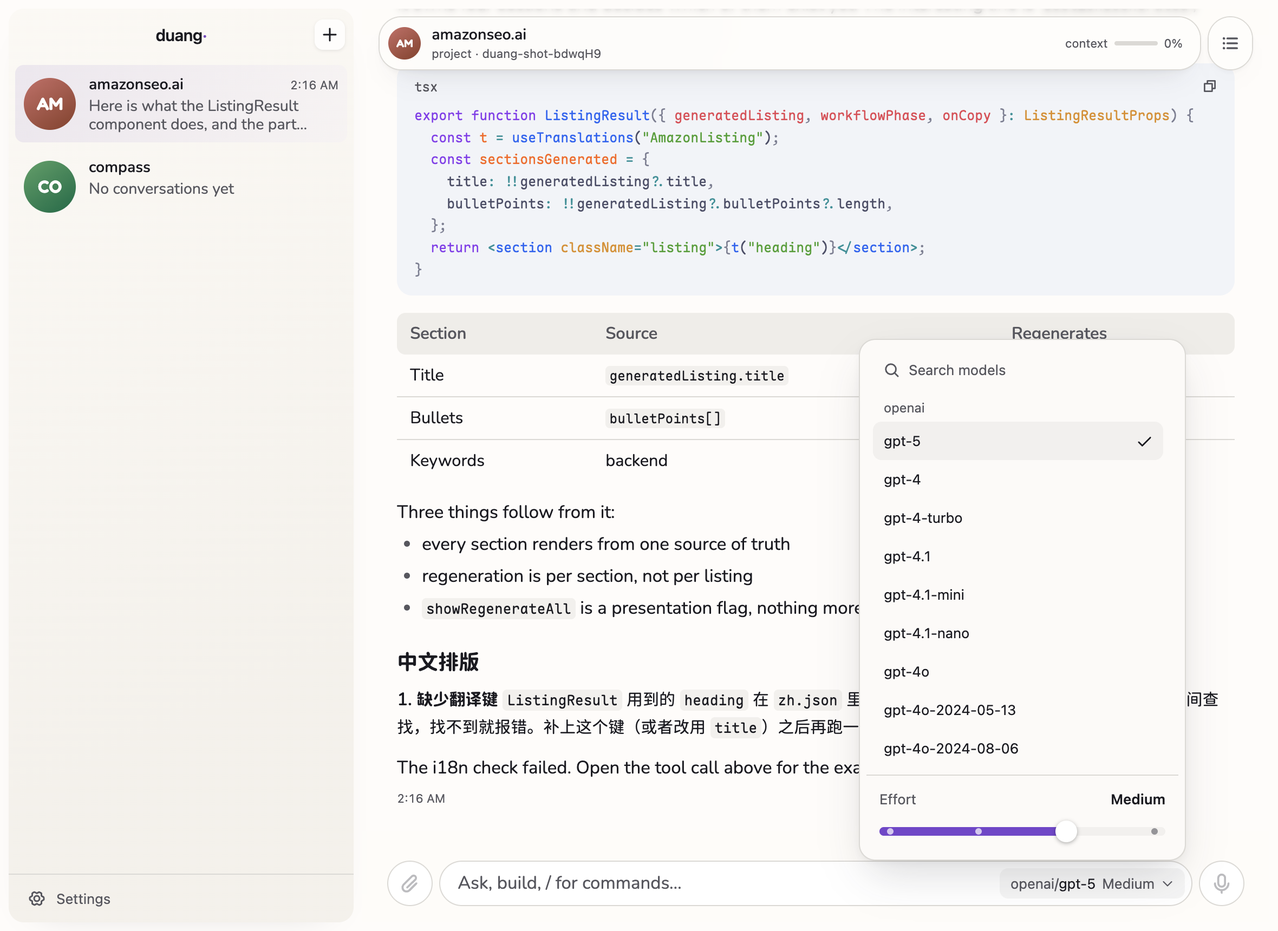
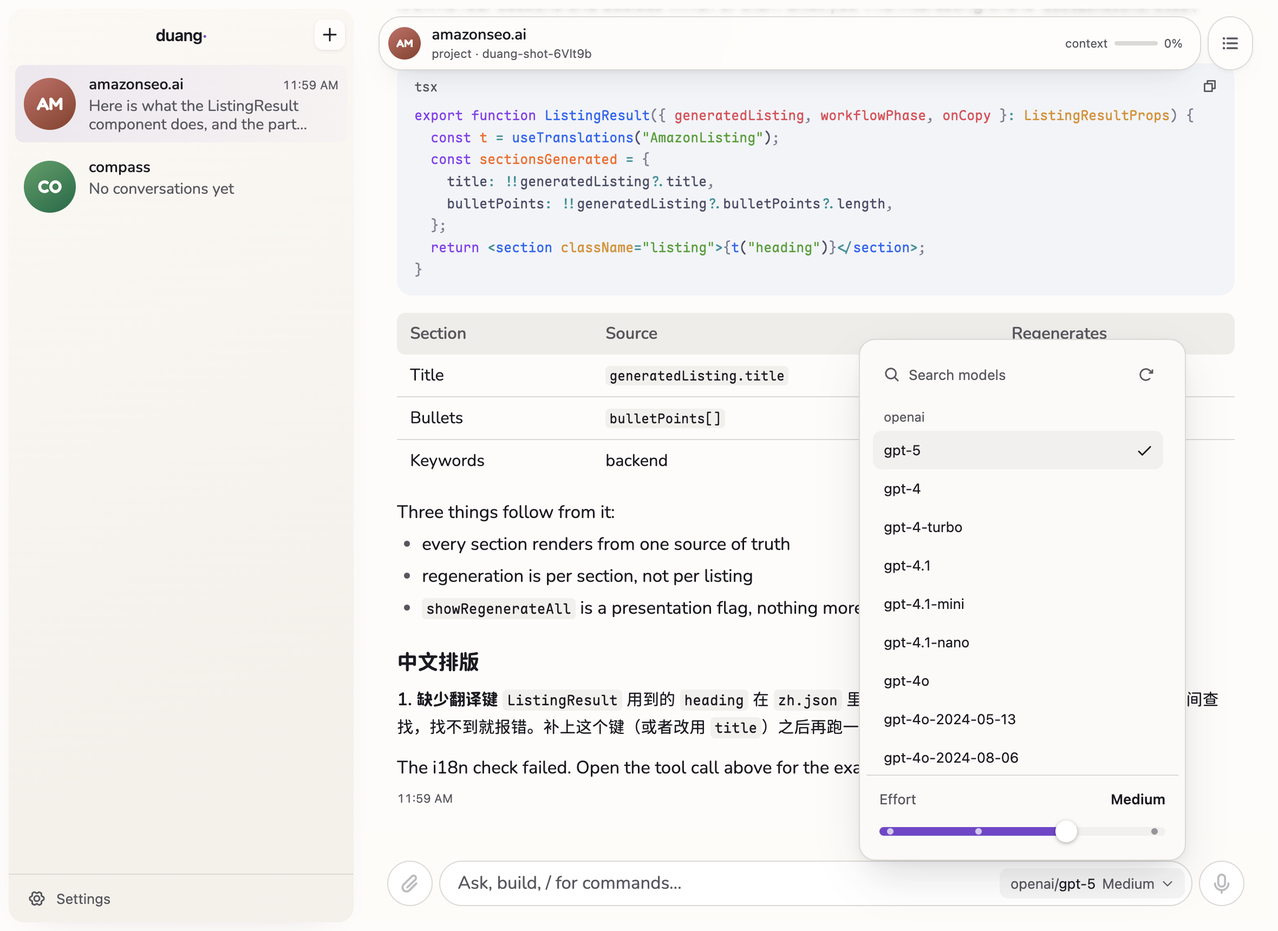
feat(ui): the model picker can fetch models released after the installed pi (#100)
## Summary

**A model released after the installed pi can be fetched from the model
picker.** The list is what pi's bundled catalog knows, so
`anthropic/claude-sonnet-5-5` was missing though pi itself shows it
(FastAgent #659, fixed in 0.23.0 as `refreshModelCatalog`, which nothing
refreshes on its own). The picker's search row now ends in a refresh
button:

- Pressing it asks pi.dev for the providers the agent's credentials
authenticate, over the same proxy route as a model call, and saves the
answer as `models-store.json` in the agent's folder (FastAgent's own
file, part of the agent's definition), then rereads the list.
- The button waits for the list to load, spins and is pressed once at a
time; a refresh already running for that agent (the picker was reopened
and pressed again) is joined, not repeated (pi serializes the writes to
`models-store.json` under a lock, so this only avoids a second request
of up to 15 s). A line under the search says how many models arrived (`2
new models.` / `No new models.`). A failure shows FastAgent's reason
verbatim (which provider, the 15-second timeout, `PI_OFFLINE`) and
leaves the list as it was.
- The answer belongs to the agent that asked and to the picker that
opened it: reopening the picker, or leaving the agent, drops a late one.
- A model it adds can be chosen at once: choosing rebuilds the agent's
runtime from the file (shown below).
- Only a person pressing it refreshes anything: no background fetch, no
[…]

diff --git a/src/renderer/store.test.ts b/src/renderer/store.test.ts
@@ -42,6 +42,7 @@ function harness() {
     revealAgent: async () => {},
     revealRegistry: async () => {},
     listModels: async () => ({ specs: ["provider/model"] }),
+    refreshModels: async () => ({ specs: ["provider/model"] }),
     providerUsage: async (provider) => ({ provider, fetchedAt: 0 }),
     getSettings: async () => ({ network: { mode: "automatic" }, route: { source: "system" } }),
     setNetwork: async () => ({ source: "system" }),
@@ -455,6 +456,26 @@ test("a refused model change or removal is shown, and changes nothing", async ()
   store.dispose();
 });
 
+test("refreshing models does nothing until the list has arrived", async () => {
+  const { api, store } = harness();
+  await store.load();
+  const slow = deferred<{ specs: string[] }>();
+  let refreshed = 0;
+  api.listModels = () => slow.promise;
+  api.refreshModels = async () => {
+    refreshed++;
+    throw new Error("could not refresh");
+  };
+  const loading = store.loadModels();
+  await store.refreshModels();
+  assert.equal(refreshed, 0, "nothing was asked: the picker is still loading");
+  assert.equal(store.getSnapshot().modelsRefresh, undefined);
+  slow.resolve({ specs: ["provider/model"] });
+  await loading;
+  assert.deepEqual(store.getSnapshot().models?.specs, ["provider/model"], "the reading in flight still lands");
+  store.dispose();
+});
+
 test("opening the conversation that is already open changes nothing", async () => {
   const { store, opens } = harness();
   await store.load();
@@ -664,6 +685,70 @@ test("the picker rereads models on every open, and a stale answer never lands", 
   slow.resolve({ specs: ["provider/stale"] });
   await pending;
   assert.deepEqual(store.getSnapshot().models?.specs, ["provider/current"]);
+  store.dispose();
+});
+
+test("refreshing models reports what arrived, keeps the list on failure, and answers only the agent and picker that asked", async () => {
+  const { api, store } = harness();
+  const asked: string[] = [];
+  api.listModels = async () => ({ specs: ["provider/old"] });
+  api.refreshModels = async (agentId) => {
+    asked.push(agentId);
+    return { specs: ["provider/old", "provider/new", "provider/newer"] };
+  };
+  await store.load();
+  await store.loadModels();
+
+  await store.refreshModels();
+  assert.deepEqual(asked, [store.getSnapshot().agentId], "the open agent's own catalog is what is refreshed");
+  assert.deepEqual(store.getSnapshot().models?.specs, ["provider/old", "provider/new", "provider/newer"]);
+  assert.deepEqual(store.getSnapshot().modelsRefresh, { status: "done", added: 2 }, "the person is told what changed");
+
+  api.refreshModels = async () => ({ specs: ["provider/old", "provider/new", "provider/newer"] });
+  await store.refreshModels();
+  assert.deepEqual(store.getSnapshot().modelsRefresh, { status: "done", added: 0 }, "nothing new is an answer too");
+
+  // A failed refresh leaves the models that are there runnable, and says why in FastAgent's own words.
+  api.refreshModels = async () => {
+    throw new Error("Error invoking remote method 'models:refresh': Error: could not refresh the model catalog: anthropic: 401");
+  };
+  await store.refreshModels();
+  assert.deepEqual(store.getSnapshot().modelsRefresh, {
+    status: "failed",
+    error: "could not refresh the model catalog: anthropic: 401",
+  });
+  assert.equal(store.getSnapshot().models?.specs.length, 3, "a failed refresh does not empty or stale the list");
+
+  // One at a time: a second press while one runs is not a second request.
+  const slow = deferred<{ specs: string[] }>();
+  let calls = 0;
+  api.refreshModels = () => (calls++, slow.promise);
+  const first = store.refreshModels();
+  void store.refreshModels(); // not awaited: without the guard it would wait on `slow` forever
+  assert.equal(calls, 1, "pressing again while the refresh runs does not start another");
+  assert.deepEqual(store.getSnapshot().modelsRefresh, { status: "running" });
+  slow.resolve({ specs: ["provider/old"] });
+  await first;
+
+  // The picker reopened meanwhile reads the list itself; the older answer must not overwrite it.
+  const late = deferred<{ specs: string[] }>();
+  api.refreshModels = () => late.promise;
+  const pending = store.refreshModels();
+  api.listModels = async () => ({ specs: ["provider/current"] });
+  await store.loadModels();
+  late.resolve({ specs: ["provider/stale"] });
+  await pending;
+  assert.deepEqual(store.getSnapshot().models?.specs, ["provider/current"]);
+  assert.equal(store.getSnapshot().modelsRefresh, undefined, "and a superseded refresh leaves no 'running' behind");
+
+  // An answer for an agent the person has left belongs to that agent, not the one now open.
+  const away = deferred<{ specs: string[] }>();
+  api.refreshModels = () => away.promise;
+  const gone = store.refreshModels();
+  await store.selectAgent("b");
+  away.resolve({ specs: ["provider/from-a"] });
+  await gone;
+  assert.deepEqual(store.getSnapshot().models?.specs, ["provider/current"], "agent A's list is not agent B's");
   store.dispose();
 });
 

diff --git a/src/renderer/composer.tsx b/src/renderer/composer.tsx
@@ -1,6 +1,6 @@
 /** Where a message is written: the draft, `/` completion, the model it goes to, send and stop. */
 import { type ReactNode, useEffect, useLayoutEffect, useRef, useState } from "react";
-import { ArrowUp, CaretDown, Check, MagnifyingGlass, Microphone, Paperclip, Stop } from "@phosphor-icons/react";
+import { ArrowClockwise, ArrowUp, CaretDown, Check, MagnifyingGlass, Microphone, Paperclip, Stop } from "@phosphor-icons/react";
 import { complete, completionQuery, matches, spelling } from "./commands.ts";
 import { Button } from "./ui.tsx";
 import type { Store, View } from "./store.ts";
@@ -90,7 +90,7 @@ function ModelPicker({
   /** Opens Settings on the providers to add; a connection made there returns here. */
   onProviders: () => void;
 }) {
-  const { models, modelsError: error } = view;
+  const { models, modelsError: error, modelsRefresh: refresh } = view;
   const onRetry = () => void store.loadModels();
   const [filter, setFilter] = useState("");
   const dialog = useRef<HTMLDialogElement>(null);
@@ -180,7 +180,30 @@ function ModelPicker({
               placeholder="Search models"
               className="min-w-0 flex-1 bg-transparent text-[13px] outline-none placeholder:text-muted"
             />
+            <Button
+              kind="ghost"
+              size={28}
+              aria-label="Refresh models"
+              title="Check for newly released models. They are saved in models-store.json in this agent's folder."
+              disabled={!models ? "Loading models…" : refresh?.status === "running" && "Checking for new models…"}
+              onClick={() => void store.refreshModels()}
+              icon={<ArrowClockwise size={15} className={refresh?.status === "running" ? "animate-spin motion-reduce:animate-none" : ""} />}
+            />
           </div>
+          {refresh && (
+            <p
+              role={refresh.status === "failed" ? "alert" : "status"}
+              className={`px-4 pb-2 text-[12px] leading-snug break-words ${refresh.status === "failed" ? "text-danger" : "text-muted"}`}
+            >
+              {refresh.status === "running"
+                ? "Checking pi.dev for new models…"
+                : refresh.status === "failed"
+                  ? refresh.error
+                  : refresh.added === 0
+                    ? "No new models."
+                    : `${refresh.added} new model${refresh.added === 1 ? "" : "s"}.`}
+            </p>
+          )}
           <div className="min-h-0 flex-1 overflow-y-auto px-1.5 pb-1.5">
             {!models && (
               <p role="status" className="p-2.5 text-[13px] text-muted">

diff --git a/src/renderer/store.ts b/src/renderer/store.ts
@@ -155,6 +155,8 @@ export interface View {
   /** The model picker's contents: undefined while loading, so the picker can say so. */
   models?: Models;
   modelsError?: string;
+  /** What the picker's last "refresh models" is doing or said; cleared whenever the list is read again. */
+  modelsRefresh?: { status: "running" } | { status: "done"; added: number } | { status: "failed"; error: string };
   /** The `/` completion list for the selected agent. */
   commands: AgentCommand[];
   commandsError?: string;
@@ -750,13 +752,36 @@ export function createStore(api: DuangApi) {
     async loadModels() {
       const id = view.agentId;
       const request = ++modelsRequest;
-      publish({ models: undefined, modelsError: undefined });
+      publish({ models: undefined, modelsError: undefined, modelsRefresh: undefined });
       if (!id) return;
       try {
         const models = await api.listModels(id);
         if (request === modelsRequest) publish({ models });
       } catch (error) {
         if (request === modelsRequest) publish({ modelsError: message(error) });
+      }
+    },
+    /**
+     * Fetches models released after the bundled catalog, for the open agent, when the person asks.
+     * The list stays as it was on a failure, with the reason beside it: a failed refresh does not
+     * make the models already there any less runnable. A reopened picker reads the list itself and
+     * drops this one's answer, as does a switch to another agent.
+     */
+    async refreshModels() {
+      const id = view.agentId;
+      // Not before the list has arrived: there would be nothing to count against, and the reading in flight
+      // would be dropped (a failure then leaves a picker with no list and nothing to retry).
+      if (!id || !view.models || view.modelsRefresh?.status === "running") return;
+      const request = ++modelsRequest;
+      const before = new Set(view.models.specs);
+      publish({ modelsRefresh: { status: "running" } });
+      try {
+        const models = await api.refreshModels(id);
+        if (request !== modelsRequest || view.agentId !== id) return;
+        publish({ models, modelsRefresh: { status: "done", added: models.specs.filter((spec) => !before.has(spec)).length } });
+      } catch (error) {
+        if (request === modelsRequest && view.agentId === id)
+          publish({ modelsRefresh: { status: "failed", error: message(error) } });
       }
     },
     /**

diff --git a/src/main/credentials.ts b/src/main/credentials.ts
@@ -5,7 +5,8 @@
  */
 import { join } from "node:path";
 import { app } from "electron";
-import { availableModelsFromDir } from "@fastagent-sh/fastagent/pi";
+import { availableModelsFromDir, refreshModelCatalog } from "@fastagent-sh/fastagent/pi";
+import { inflight } from "./inflight.ts";
 
 export const authPath = join(app.getPath("userData"), "auth.json");
 
@@ -14,17 +15,32 @@ export interface Models {
   specs: string[];
 }
 
+/** The credential file every read here goes through. */
+const credentials = {
+  authPath,
+  // A corrupt or unreadable file must be an error here, not an empty list.
+  warn(message: string): never {
+    throw new Error(message);
+  },
+};
+
 /**
  * The agent's own list — built-ins plus its `models.json` — read through the file its runtime uses.
  * Configuration, not a network health check: OAuth refresh and provider errors are left to execution.
  */
 export async function modelsFor(dir: string): Promise<Models> {
-  const specs = await availableModelsFromDir(dir, {
-    authPath,
-    // A corrupt or unreadable file must be an error here, not an empty list.
-    warn(message) {
-      throw new Error(message);
-    },
-  });
-  return { specs };
+  return { specs: await availableModelsFromDir(dir, credentials) };
 }
+
+/**
+ * Asks pi.dev for models released after the bundled catalog, for the providers this agent's credentials
+ * authenticate, and saves the answer as `models-store.json` in the agent's folder (FastAgent's own
+ * file: it is part of the agent's definition). Only a person asking does this: nothing refreshes on
+ * its own. It rejects, naming each provider that failed, on an error, after 15 seconds, or under
+ * `PI_OFFLINE`; the old list stays valid. A refresh already running for the folder (the picker was
+ * reopened and pressed again) is joined, not repeated.
+ */
+export const refreshModels = inflight(async (dir: string): Promise<Models> => {
+  await refreshModelCatalog(dir, credentials);
+  return modelsFor(dir);
+});

diff --git a/src/main/inflight.test.ts b/src/main/inflight.test.ts
@@ -1,0 +1,44 @@
+import assert from "node:assert/strict";
+import { test } from "node:test";
+import { inflight } from "./inflight.ts";
+
+test("a call made while one runs for the same key joins it; another key, or a later call, runs on its own", async () => {
+  const started: string[] = [];
+  const release = new Map<string, (value: string) => void>();
+  const run = inflight((key) => {
+    started.push(key);
+    return new Promise<string>((resolve) => release.set(key, resolve));
+  });
+
+  const first = run("a");
+  const joined = run("a");
+  assert.equal(joined, first, "the second call gets the first one's promise");
+  const other = run("b");
+  assert.deepEqual(started, ["a", "b"], "only one run per key, however many callers");
+  release.get("a")!("done");
+  assert.equal(await first, "done");
+  release.get("b")!("other");
+  assert.equal(await other, "other");
+
+  const later = run("a");
+  assert.deepEqual(started, ["a", "b", "a"], "once it has settled, the next call is a new run");
+  release.get("a")!("again");
+  assert.equal(await later, "again");
+});
+
+test("a failure is every joined caller's failure, and the next call tries again", async () => {
+  let calls = 0;
+  const run = inflight(async () => {
+    calls++;
+    throw new Error("could not refresh");
+  });
+  const results = await Promise.allSettled([run("a"), run("a")]);
+  assert.deepEqual(
+    results.map((r) => r.status === "rejected" && r.reason.message),
+    ["could not refresh", "could not refresh"],
+    "the original error reaches each of them",
+  );
+  assert.equal(calls, 1);
+  await assert.rejects(run("a"), /could not refresh/);
+  assert.equal(calls, 2, "a failed run is not remembered");
+});

diff --git a/src/main/index.ts b/src/main/index.ts
@@ -17,7 +17,7 @@ import {
   workingAgents,
   type AgentRow,
 } from "./agents.ts";
-import { authPath, modelsFor } from "./credentials.ts";
+import { authPath, modelsFor, refreshModels } from "./credentials.ts";
 import { disconnect, listProviders, startLogin, type LoginMethod, type LoginOutcome } from "./providers.ts";
 import { forgetUsage, providerUsage } from "./usage.ts";
 import { applyNetwork, describeRoute, syncCommandProxy, testConnection } from "./proxy.ts";
@@ -257,6 +257,7 @@ function register(): void {
   });
   ipcMain.handle("network:test", () => testConnection());
   ipcMain.handle("models:list", async (_e, id: string) => modelsFor((await requireAgent(id)).dir));
+  ipcMain.handle("models:refresh", async (_e, id: string) => refreshModels((await requireAgent(id)).dir));
   // Model providers, in duang's own credential file. `empty` is never written: it is where a provider's
   // environment variable is read with no stored credential in front of it. In this user's own data,
   // not a shared temporary directory where anyone could put a file at that path.

diff --git a/src/preload/index.ts b/src/preload/index.ts
@@ -68,6 +68,11 @@ const api = {
    * configured credential (the credential file, an environment variable or a key in `models.json`).
    */
   listModels: (agentId: string): Promise<Models> => ipcRenderer.invoke("models:list", agentId),
+  /**
+   * Fetches models released after the bundled catalog and saves them in `models-store.json` in the
+   * agent's folder, then answers with the new list. Only on request; rejects with FastAgent's reason.
+   */
+  refreshModels: (agentId: string): Promise<Models> => ipcRenderer.invoke("models:refresh", agentId),
   /** duang's own preferences and the route requests take now. Rejects when the settings file is unreadable. */
   getSettings: (): Promise<{ network: Network; route: Route }> => ipcRenderer.invoke("settings:get"),
   /** Saves and applies at once; new requests use it, a running turn keeps its connection. */

diff --git a/src/main/inflight.ts b/src/main/inflight.ts
@@ -1,0 +1,15 @@
+/**
+ * One run per key at a time: a call made while one is running for the same key joins it and gets its
+ * answer, instead of starting a second. For work that goes to the network and writes a file, where the
+ * second run would only repeat the first.
+ */
+export function inflight<V>(run: (key: string) => Promise<V>): (key: string) => Promise<V> {
+  const running = new Map<string, Promise<V>>();
+  return (key) => {
+    const joined = running.get(key);
+    if (joined) return joined;
+    const started = run(key).finally(() => running.delete(key));
+    running.set(key, started);
+    return started;
+  };
+}

diff --git a/docs/ui.zh.md b/docs/ui.zh.md
@@ -101,7 +101,7 @@ tier-1 的状态同样以文字进入侧栏：`broken`、`needs a model`、`no a
 
 **不包含**：置顶、隐藏、归档、分组。那些属于五十个 agent 的名册；对五个的列表而言，它们是凭空制造的管理负担。等真有列表读不动了再加其中一个。
 
-**模型 chip 和它的选择器参照 Codex，按 duang 自己的条件做。** chip 上提供方用淡色、id 用正常色，后面跟着推理强度（`openai/gpt-5 Minimal`）；提供方不能省，因为 `openai/` 和 `openai-codex/` 的 id 相同，付费方式却不同。它打开一个对齐在 chip 右缘的浮层：一行搜索、按提供方分组的模型（只显示 id，用系统字体而不是等宽，13px）、以及推理强度。强度是一条带刻度的轨道，每档一个刻度；刻度就是运行时给出的档位，而且档位属于会话，所以还没开始的会话会直接说明。轨道显示运行时报告的档位，不会领先于它：选择送到运行时，再作为 `state_changed` 回来。选择会往会话记录里写一条持久条目，所以选择必须是明确的：各档是 `radiogroup` 里的按钮，方向键只移动焦点，回车、空格或点击才选择（原生 radio 组会在方向键经过的每一档都选择）。列表最多显示 60 行，并说明还有多少没显示，因为排在限制之后的提供方连标题都不会出现。FastAgent 没有给出模型的友好名称，从 id 猜一个名字，就是给运行时并不这么叫的模型起了名字，所以列表显示 id。选择器里不放的：凭据文件路径（用户无法据此做任何事）和"管理提供方"链接（设置在侧栏里；空列表仍保留唯一的 **Connect a provider**）。
+**模型 chip 和它的选择器参照 Codex，按 duang 自己的条件做。** chip 上提供方用淡色、id 用正常色，后面跟着推理强度（`openai/gpt-5 Minimal`）；提供方不能省，因为 `openai/` 和 `openai-codex/` 的 id 相同，付费方式却不同。它打开一个对齐在 chip 右缘的浮层：一行搜索（末尾有个安静的刷新按钮，按下之后，下面会有一行说明找到了什么或为什么失败）、按提供方分组的模型（只显示 id，用系统字体而不是等宽，13px）、以及推理强度。强度是一条带刻度的轨道，每档一个刻度；刻度就是运行时给出的档位，而且档位属于会话，所以还没开始的会话会直接说明。轨道显示运行时报告的档位，不会领先于它：选择送到运行时，再作为 `state_changed` 回来。选择会往会话记录里写一条持久条目，所以选择必须是明确的：各档是 `radiogroup` 里的按钮，方向键只移动焦点，回车、空格或点击才选择（原生 radio 组会在方向键经过的每一档都选择）。列表最多显示 60 行，并说明还有多少没显示，因为排在限制之后的提供方连标题都不会出现。FastAgent 没有给出模型的友好名称，从 id 猜一个名字，就是给运行时并不这么叫的模型起了名字，所以列表显示 id。选择器里不放的：凭据文件路径（用户无法据此做任何事）和"管理提供方"链接（设置在侧栏里；空列表仍保留唯一的 **Connect a provider**）。
 
 **标题栏分成两块**：你正在看的东西（头像、agent 和对话、目录、`working`、上下文用量、`queued`；套餐的各个窗口在悬停表里）是一块胶囊，对话上唯一的操作（会话列表）是它旁边的一个圆盘，和 Telegram 把聊天信息与通话、搜索、菜单分开的做法一样。标题栏走满窗格宽度：它是外壳，限制在阅读栏里会读成页面中间的一张卡片。输入框则不是：它在阅读栏里，附件和语音/发送两个圆盘正好在文字的两个边缘上，因为视线是从最后一行直接落到输入框的，输入框比文字宽就成了一次跳跃。圆盘是孤零零一个，因为对话上现在没有别的操作：新建对话在侧栏里，而一个里面什么都没有的菜单只是摆设。
 

diff --git a/docs/interaction.md b/docs/interaction.md
@@ -45,6 +45,17 @@ on the open conversation only, and is refused while it runs; the arrow keys move
 and write nothing, and Enter, Space or a click choose. A list of more than 60 models says how many it left out. The picker shows no credential path and
 links to no provider page; with nothing connected its one offer is **Connect a provider**, which
 returns to the picker after connecting. Configuration is not a provider probe.
+The list is what pi's bundled catalog knows, so a model released since the installed pi is missing until
+the catalog is refreshed. The refresh button at the end of the search row asks for that, only when pressed:
+pi.dev is asked for the providers the agent's credentials authenticate, over the same proxy route as a model
+call, and the answer is saved as `models-store.json` in the agent's folder, FastAgent's own file and part of
+the agent's definition (commit it and it ships with a deploy). The button waits for the list to load, spins
+while a refresh runs and is pressed once at a time (a refresh already running for that agent, started before
+the picker was reopened, is joined rather than repeated); a line under the search says how many models arrived, or none, and a failure shows
+FastAgent's reason verbatim (which provider, a timeout after 15 seconds, `PI_OFFLINE`) with the list left as it
+was. The answer belongs to the agent that asked and to the picker opening it: reopening the picker, or leaving
+the agent, drops a late one. A model it adds can be chosen at once, because choosing rebuilds the agent's runtime
+from the file.
 The model on a historical conversation can differ from the agent's default.
 
 Settings open from the App menu's **Settings…** (`⌘,`) or the Settings row at the foot of the

diff --git a/docs/ui.md b/docs/ui.md
@@ -196,7 +196,8 @@ percentage is the signal.
 button it is beside the field's own text, names the provider quietly
 and the id plainly, with the effort after it (`openai/gpt-5 Minimal`); the provider stays because
 `openai/` and `openai-codex/` offer the same ids and are paid for differently. It opens one popover
-anchored to the chip's right edge: a search row, the models under their provider (ids only, in the
+anchored to the chip's right edge: a search row (with a quiet refresh button at its end, and under it, once
+pressed, one line of what it found or why it failed), the models under their provider (ids only, in the
 system face rather than mono, at 13px), and the effort. Effort is a track with a stop per
 level; the runtime's list is the stops, and it is per conversation, so a conversation that has not begun
 says so. The track shows the level the runtime reports and nothing ahead of it: a choice reaches the runtime

diff --git a/README.md b/README.md
@@ -159,6 +159,8 @@ The picker lists what the open agent can run, including endpoints from its own
 configured credential, whether in that file, an environment variable or a key written in a
 `models.json`. It checks credential configuration without refreshing OAuth or testing the provider.
 Reopening it or pressing Retry rereads the file, so external login changes need no app restart.
+A model released after the installed pi appears once the picker's refresh button has fetched the catalog
+from pi.dev for that agent (saved as `models-store.json` in its folder); nothing refreshes on its own.
 Execution resolves the actual conversation's provider, including history that differs from the
 agent default; OAuth refresh and provider errors remain visible. OAuth refresh writes back to the
 same file through the SDK. Behind a proxy, every request follows the system's proxy settings as
